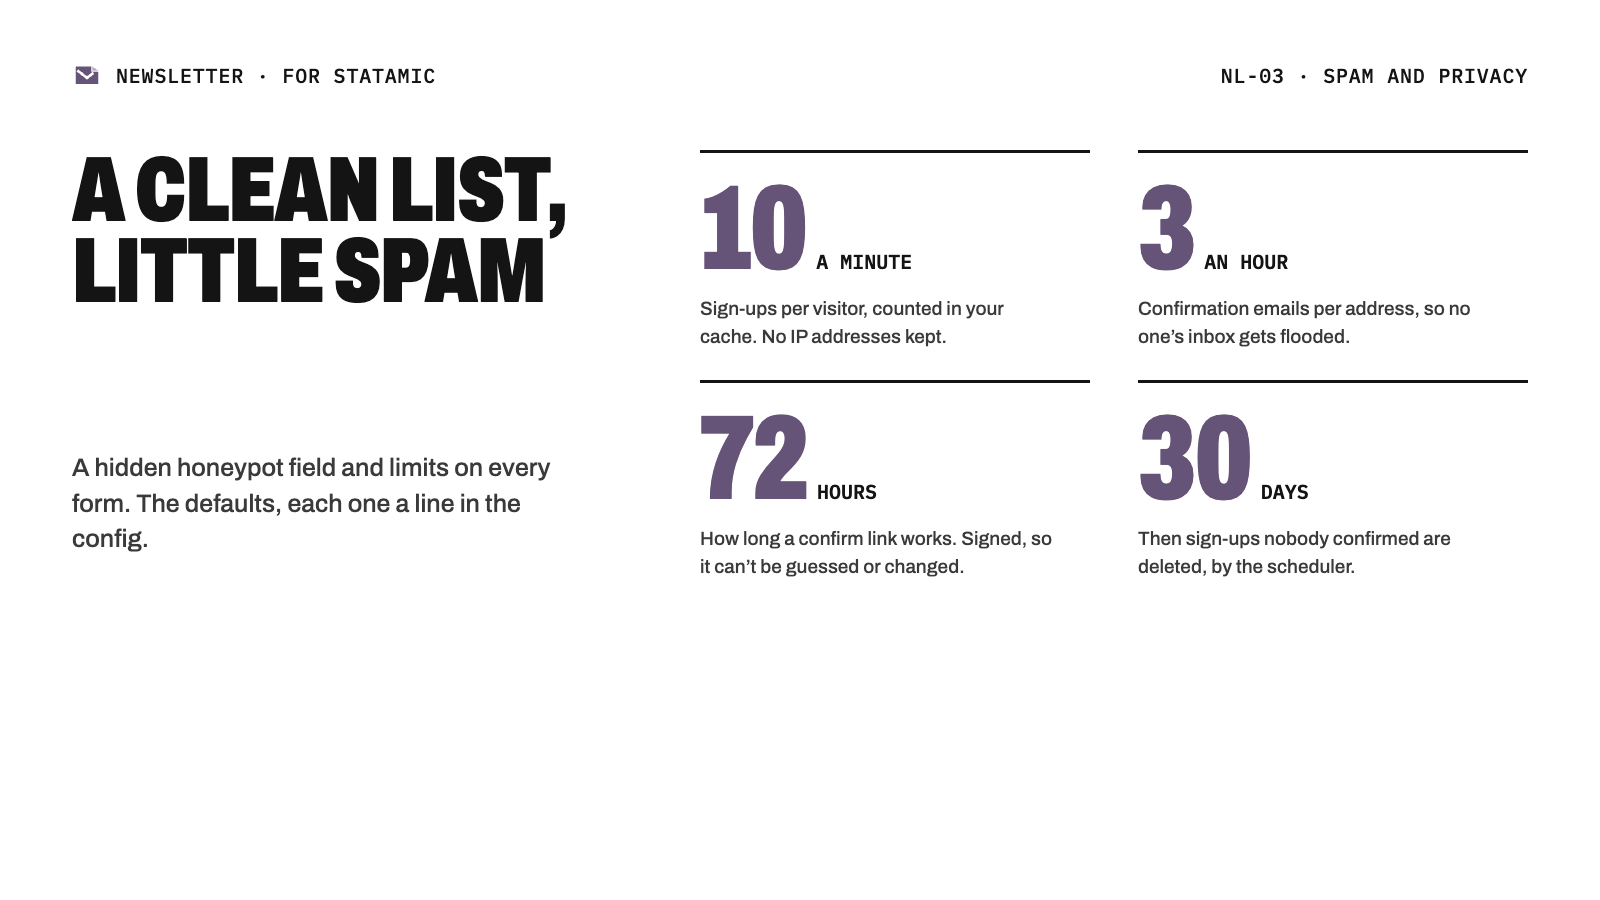
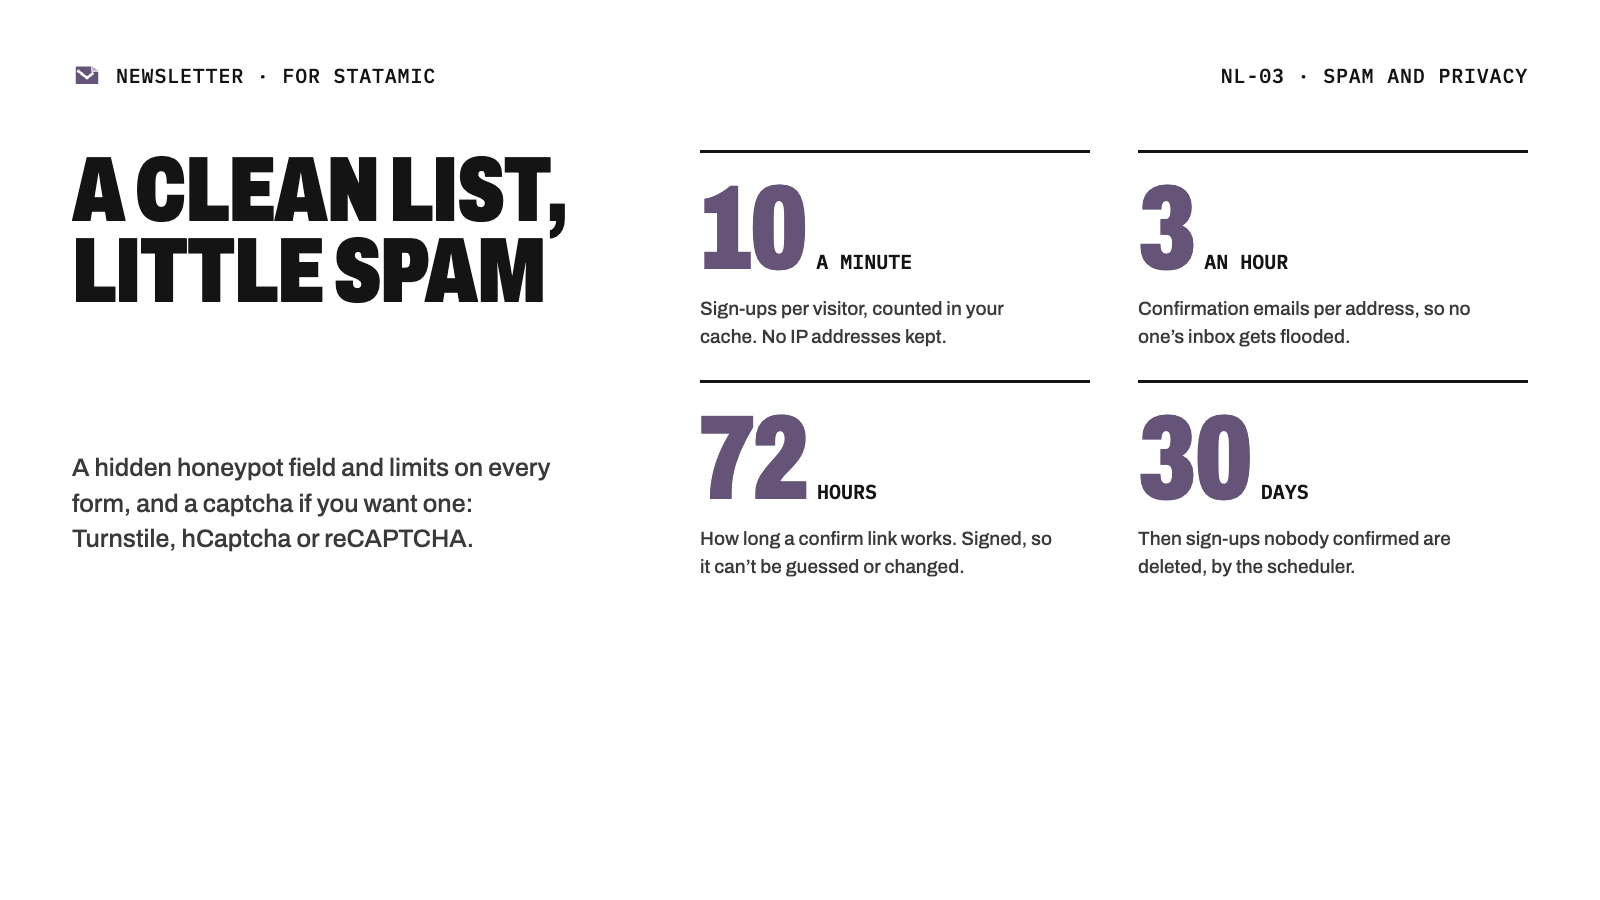
Newsletter: the captcha on the spam image and in the listing text

Changed region(s): [[0.0312, 0.5289, 0.3125, 0.6222]]

diff --git a/newsletter/description.md b/newsletter/description.md
@@ -28,7 +28,7 @@ Every subscriber has an unsubscribe link that works with mail apps' one-click un
 
 ## No leaks, little spam
 
-The form says the same thing whether an address is new or already subscribed, so it can't be used to find out who is on your list. A hidden honeypot field, a limit on sign-ups per visitor and a limit on confirmation emails per address. No IP addresses are kept.
+The form says the same thing whether an address is new or already subscribed, so it can't be used to find out who is on your list. A hidden honeypot field, a limit on sign-ups per visitor and a limit on confirmation emails per address. And a captcha if you want one: Cloudflare Turnstile, hCaptcha, Google reCAPTCHA v2 or v3, or your own. No IP addresses are kept.
 
 ## Tidy
 
